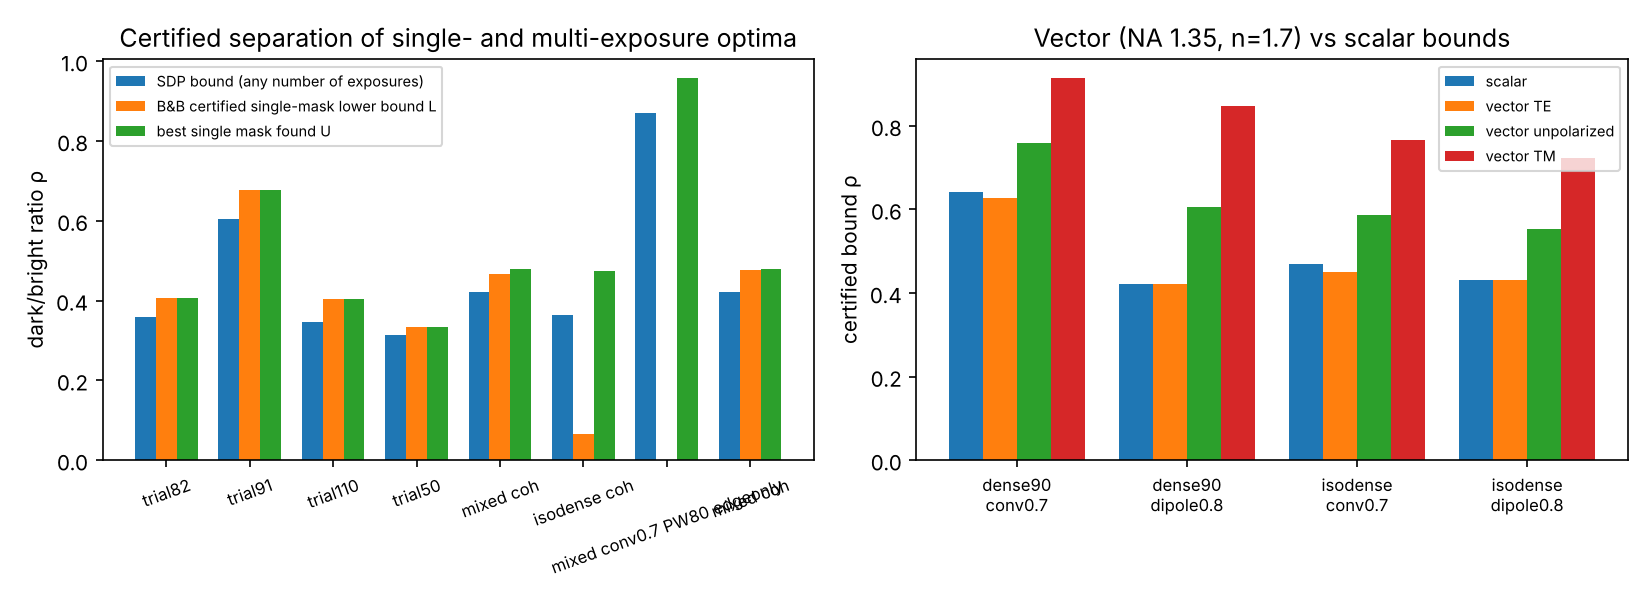
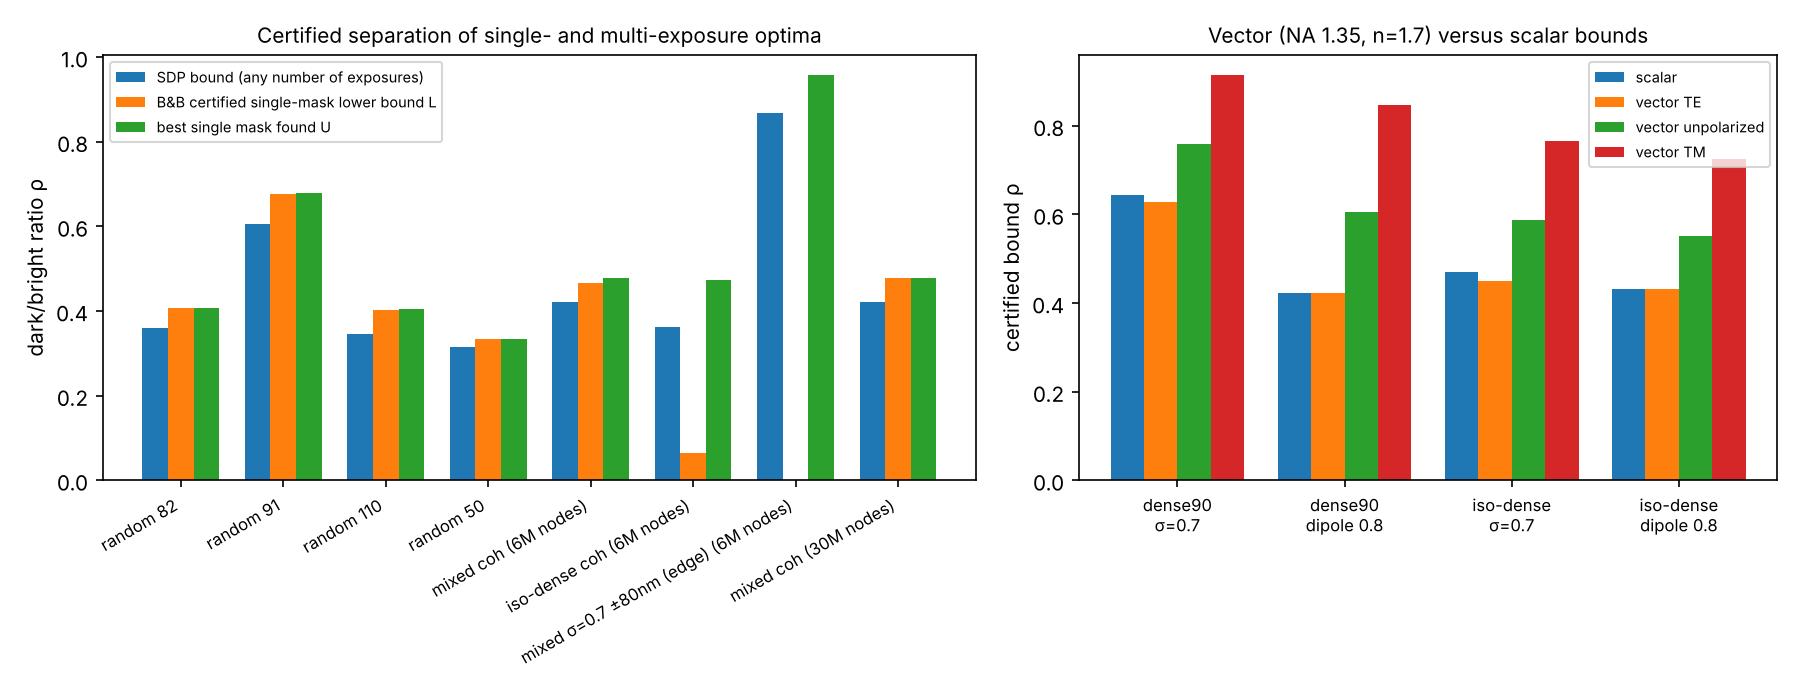
paper: front matter, keywords, organization paragraph; fig5 labels
Claude-Session: https://claude.ai/code/session_013PTByAKYPg9y6TF4MuGJPW

diff --git a/paper/main.tex b/paper/main.tex
@@ -16,8 +16,8 @@
 \newcommand{\I}{I}\newcommand{\rhostar}{\rho^{\star}}\newcommand{\NA}{\mathrm{NA}}\newcommand{\EL}{\mathrm{EL}}
 \input{numbers}
 \title{Certified Bounds for Partially Coherent Mask Synthesis:\\ Convex Printability Certificates, Certified Separation of Single- and Multi-Exposure Optima, and Pattern-Specific Exposure-Latitude Limits}
-\author{Author names withheld (autonomous research system with human oversight)\thanks{Code, data and the full verification record accompany this manuscript (\texttt{code/}, \texttt{results/}, \texttt{notes/}). Every number and every table body in this manuscript is generated from the result files of one clean execution of \texttt{code/run\_all\_par.sh} by \texttt{code/make\_numbers.py}; no number is typed by hand.}}
-\date{October 12, 2026 --- manuscript v3 (internally verified; six independent adversarial reviews applied; not peer reviewed)}
+\author{Autonomous research system (Claude Code) with human oversight\thanks{Correspondence: repository owner. Code, data and the full verification record accompany this manuscript (\texttt{code/}, \texttt{results/}, \texttt{notes/}). Every number and every table body is generated from the result files of one clean execution of \texttt{code/run\_all\_par.sh} by \texttt{code/make\_numbers.py}; no number is typed by hand. Manuscript v3: internally verified and revised after six independent adversarial reviews; not peer reviewed.}}
+\date{October 12, 2026}
 \sloppy
 \begin{document}\maketitle
 
@@ -30,6 +30,7 @@
 
 \noindent\textbf{Conclusions.} The certificates make local optimality checkable, quantify the multi-exposure and phase-shift entitlement, and retain their structure under the vector model and moderate aberrations; their numerical values are entitlements of the thin-mask aerial-image model, necessary but not sufficient for printability.
 \end{abstract}
+\noindent\textbf{Keywords:} computational lithography; inverse lithography; source--mask optimization; partially coherent imaging; semidefinite relaxation; duality certificates; branch and bound; exposure latitude.
 
 \section{Introduction}
 Computational lithography synthesizes a mask (and a source) so that the projected aerial image prints a target layout. In the Abbe formulation the image is a weighted sum, over source points, of squared moduli of filtered mask spectra: it is \emph{quadratic} in the mask. ILT and SMO therefore optimize nonconvex functionals. IBM's wavefront-optimization work states that mask optimization ``tends inherently to be a problem with non-convex quadratic constraints'' \cite{rosenbluth2007}; recent work on learned ILT describes objectives ``that often trap optimization in poor local minima'' \cite{nvidia2026}; and reviews list local optimality among the open problems \cite{pang2021,yang2025}. What is missing is a \emph{certificate}: a proof, for a given target, illumination, numerical aperture and wavelength, that no mask can do better than a stated value. Such certificates (i)~separate unprintable layouts from unconverged optimizers, (ii)~benchmark ILT engines against the true optimum, (iii)~quantify the value of multiple exposure and of phase-shift versus nonnegative masks, (iv)~generalize the $k_1$ rule to arbitrary layouts, and (v)~localize the geometry that limits printability through the support of the dual weights.
@@ -42,6 +43,8 @@ Computational lithography synthesizes a mask (and a source) so that the projecte
 \item[(C4)] An open pipeline, an empirical study whose every number is generated from the result files, and independent verification of every certificate.
 \end{itemize}
 \paragraph{Not claimed.} No new SDP algorithm (the Shor relaxation of a QCQP is textbook \cite{luo2010,boyd2004}, and SDP-bounded branch-and-bound for nonconvex QCQPs is established \cite{burer2008}); no full-chip scalability; no thick-mask electromagnetics, resist chemistry or stochastics; no statement about proprietary ILT engines. ``Certified'' means exact in exact arithmetic and safeguarded, not interval-verified, against double-precision rounding (\S\ref{sec:alg}).
+
+\paragraph{Organization.} \S\ref{sec:model} states the imaging model, the synthesis problem and its relaxation; \S\ref{sec:theory} proves the certificate, the multi-exposure identity, the Toeplitz characterization and the branch-and-bound bound; \S\ref{sec:alg} describes the solver, the round-off safeguard and the primal heuristics; \S\ref{sec:exp} reports the experiments; the Discussion and Limitations close the paper.
 
 \section{Related Work}
 \paragraph{Wavefront optimization.} Rosenbluth et al.\ \cite{rosenbluth2002,rosenbluth2007} optimize the collected diffraction orders directly, maximizing exposure latitude subject to sampled bright/dark intensity constraints---the same objective as ours; a patent of the same group writes the problem as a quadratic program in the order amplitudes \cite{ibm_patents}, and the source step is a linear program \cite{rosenbluth2006}. Their global strategies partition the solution space into regions with at most one local minimum \cite{rosenbluth2007}, use dominant ``joint eigenvectors'' and a ``step-walk relaxation'', and, for multiple exposure, an unconstrained Rayleigh-quotient simplification \cite{ibm_patents}. None yields a bound on solutions obtained by other means; we compare with the Rayleigh-quotient bound in Table~\ref{tab:rayleigh}. The stacked pupil-shift matrix of \cite{yamazoe2008} is the channel matrix of our Eq.~\eqref{eq:image}; pixel-based ILT \cite{granik2006,poonawala2007} and SMO \cite{socha2005} are the local methods our certificates evaluate.
@@ -209,7 +212,7 @@ Case & $F$ & SDP bound & B\&B $L$ & Best single $U$ & Nodes & Converged & Certif
 \input{tab_bnb}\\
 \bottomrule\end{tabular}}\end{table}
 \begin{figure}[tbp]\centering\includegraphics[width=\linewidth]{fig5_bnb_vector.png}
-\caption{Left: SDP bound $t_R$, certified single-mask lower bound $L$ and best single mask $U$ for the converged cases of Table~\ref{tab:bnb}; a gap between the first and second bar proves that multiple exposure strictly improves the ratio. Right: bounds under the scalar model and under the vector model ($\NA=1.35$, resist index 1.7) for TE, unpolarized and TM illumination on four one-dimensional targets (\S\ref{sec:robust}).}\label{fig:bnb}\end{figure}
+\caption{Left: SDP bound $t_R$, certified single-mask lower bound $L$ and best single mask $U$ for the cases of Table~\ref{tab:bnb} (the last three columns are the non-converged runs, including the 30-million-node run on the mixed target); a gap between the first and second bar proves that multiple exposure strictly improves the ratio. Right: bounds under the scalar model and under the vector model ($\NA=1.35$, resist index 1.7) for TE, unpolarized and TM illumination on four one-dimensional targets (\S\ref{sec:robust}).}\label{fig:bnb}\end{figure}
 
 \subsection{Nonnegative versus phase-shift masks and pattern-error ILT}
 Table~\ref{tab:psm} compares the certified optima of real (phase-shift) and nonnegative masks with a standard pattern-error ILT on the iso-dense, mixed and dense-120 targets ($\sigma=0.7$, $\tau=\SI{5}{nm}$). The DNN relaxation over nonnegative masks on a \SI{5}{nm} pixel grid exceeds the PSM bound by \binPenLo--\binPenHi{}: nonnegative pixelated masks forfeit at least that much (the Toeplitz cone of Theorem~\ref{thm:toeplitz} would extend the statement to all nonnegative masks). Pixel- and Fourier-domain PSM relaxations agree to $\pixFourierAgree$. A pattern-error ILT (sigmoid resist, open-frame-normalized intensity, threshold 0.3, best of six settings, 1,500 Adam steps; gradient checked against finite differences in the test suite) lands \iltPsmLo--\iltPsmHi{} (PSM) and up to \iltBinHi{} (nonnegative) above the certified PSM optimum; refining the ILT mask on the ratio objective removes part of this gap.

diff --git a/code/fig5.py b/code/fig5.py
@@ -3,15 +3,18 @@ R = '/home/user/Fable-Research/results/'
 e14 = json.load(open(R+'exp14_bnb.json'))
 try: e14 += json.load(open(R+'exp14b_bnb_big.json'))
 except Exception: pass
-fig, ax = plt.subplots(1, 2, figsize=(11, 4))
+fig, ax = plt.subplots(1, 2, figsize=(12, 4.6), gridspec_kw={'width_ratios': [1.25, 1]})
+def short(n):
+    n = n.replace('_edgeonly', ' (edge)').replace('_PW80', ' ±80nm').replace('conv0.7', 'σ=0.7').replace('_coh', ' coh').replace('isodense', 'iso-dense').replace('trial', 'random ')
+    return n.replace('_', ' ')
 names = [r['name'] for r in e14]; x = np.arange(len(e14))
 ax[0].bar(x-0.25, [r['sdp_bound'] for r in e14], 0.25, label='SDP bound (any number of exposures)')
 ax[0].bar(x, [r['bnb_L'] for r in e14], 0.25, label='B&B certified single-mask lower bound L')
 ax[0].bar(x+0.25, [r['bnb_U'] for r in e14], 0.25, label='best single mask found U')
-ax[0].set_xticks(x); ax[0].set_xticklabels([n.replace('_',' ') for n in names], rotation=20, fontsize=8); ax[0].set_ylabel('dark/bright ratio ρ'); ax[0].legend(fontsize=7); ax[0].set_title('Certified separation of single- and multi-exposure optima')
+ax[0].set_xticks(x); ax[0].set_xticklabels([short(r['name']) + (f" ({r['bnb_nodes']/1e6:.0f}M nodes)" if r.get('bnb_nodes', 0) >= 1e6 else '') for r in e14], rotation=30, ha='right', fontsize=8); ax[0].set_ylabel('dark/bright ratio ρ'); ax[0].legend(fontsize=7); ax[0].set_title('Certified separation of single- and multi-exposure optima', fontsize=10)
 e16 = json.load(open(R+'exp16_physics.json'))
-rows = e16['vector_1d']; x = np.arange(len(rows)); labels = [f"{r['case']}\n{r['src']}" for r in rows]
+rows = e16['vector_1d']; x = np.arange(len(rows)); labels = [f"{r['case'].replace('isodense','iso-dense').replace('_',' ')}\n{r['src'].replace('conv0.7','σ=0.7').replace('dipole0.8','dipole 0.8')}" for r in rows]
 for i, (key, lab) in enumerate([('scalar_bound','scalar'), ('TE_bound','vector TE'), ('unpol_bound','vector unpolarized'), ('TM_bound','vector TM')]):
     ax[1].bar(x + (i-1.5)*0.2, [r[key] for r in rows], 0.2, label=lab)
-ax[1].set_xticks(x); ax[1].set_xticklabels(labels, fontsize=8); ax[1].set_ylabel('certified bound ρ'); ax[1].legend(fontsize=7); ax[1].set_title('Vector (NA 1.35, n=1.7) vs scalar bounds')
+ax[1].set_xticks(x); ax[1].set_xticklabels(labels, fontsize=8); ax[1].set_ylabel('certified bound ρ'); ax[1].legend(fontsize=7); ax[1].set_title('Vector (NA 1.35, n=1.7) versus scalar bounds', fontsize=10)
 plt.tight_layout(); plt.savefig(R+'figs/fig5_bnb_vector.png', dpi=150); print('fig5 written')
